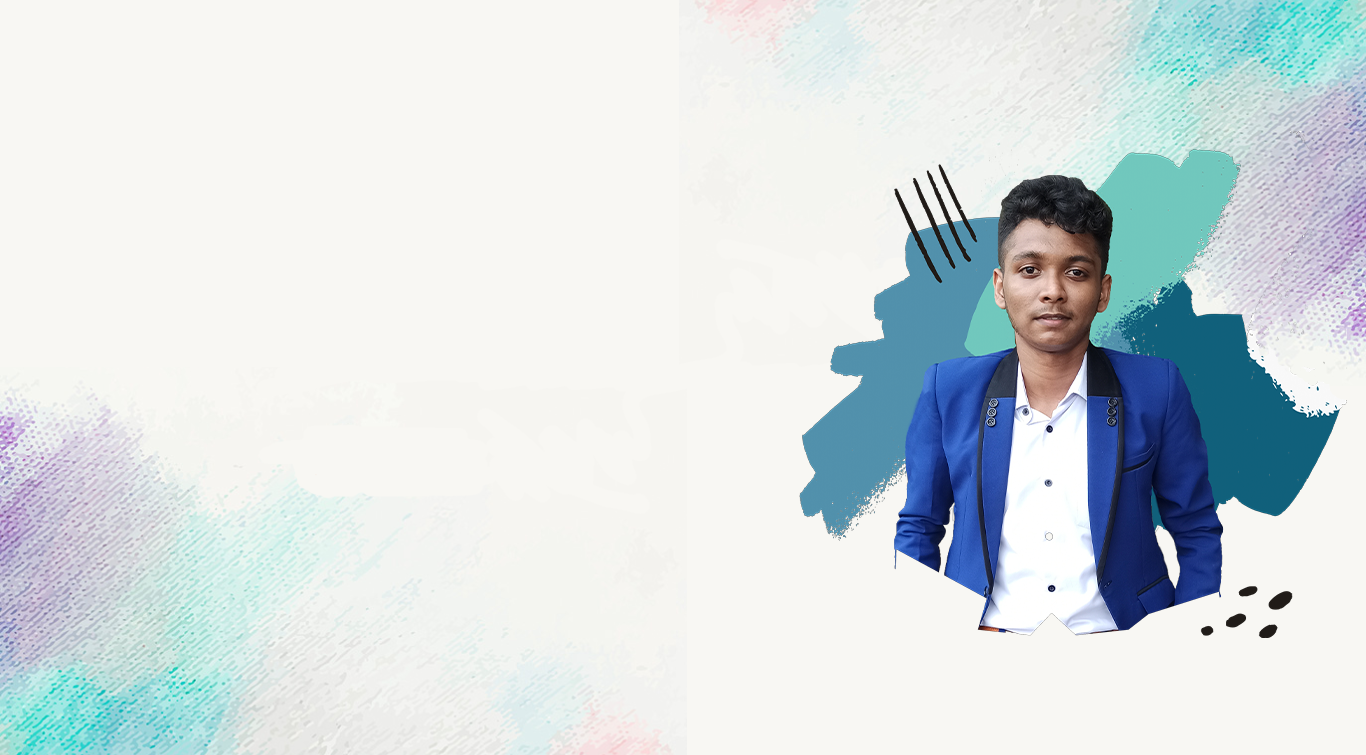
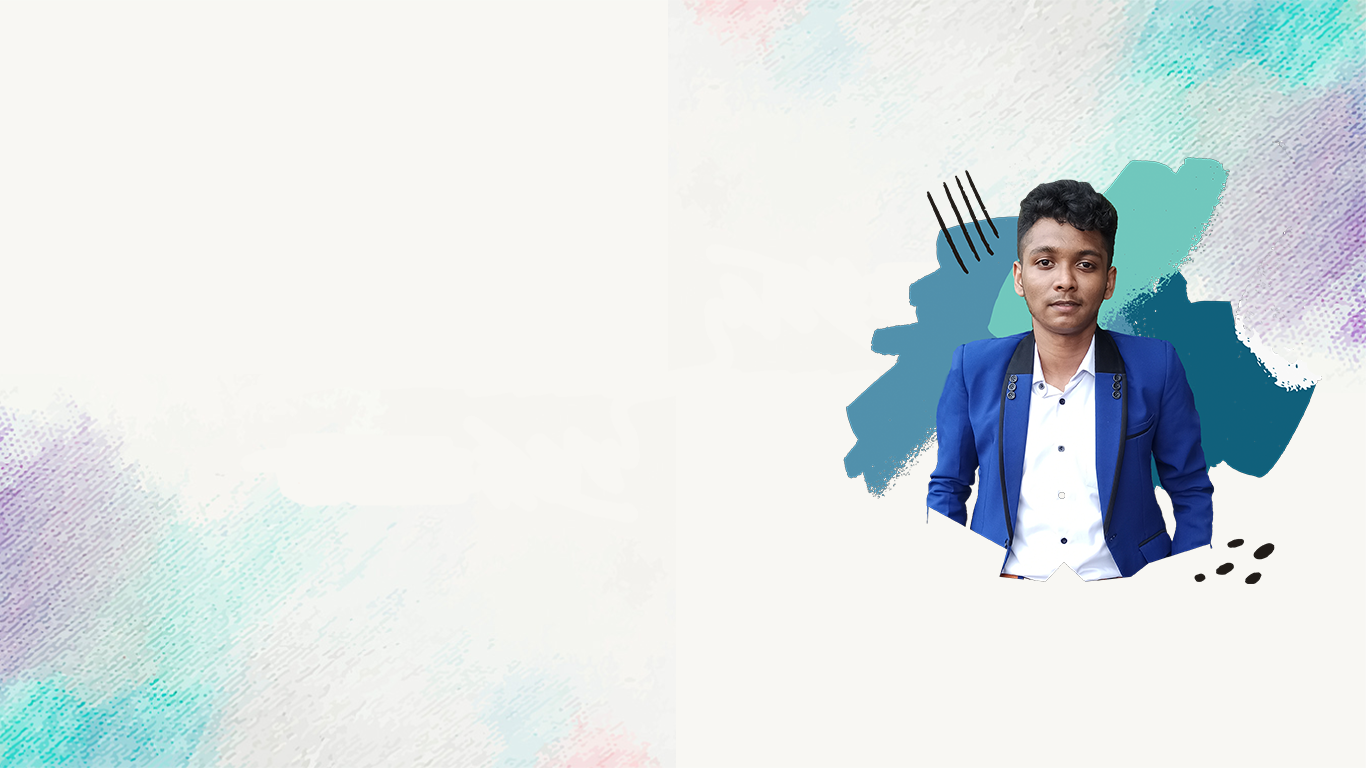
home image refactor resolotion

diff --git a/index.html b/index.html
@@ -37,9 +37,11 @@
 
 <!--Main sectioning -->
 <main>
-
     <!--Home page sectioning -->
-    <section class="background"> <!--Image sectioning --></section>
+    <section> <!--Image sectioning -->
+        <img src="assets/images/background1.png" alt="" class="background"></a>
+
+    </section>
 
     <article> <!--Paragraph sectioning -->
         <h1>Hello,</h1>

diff --git a/assets/styles/mainStyleSheet.css b/assets/styles/mainStyleSheet.css
@@ -57,8 +57,8 @@ header {
 }
 
 .background {
-    background: url("/assets/images/background1.png") no-repeat;
+    background-repeat: no-repeat;
     background-size: 100%;
-    height:120vh;
+    height: 112vh;
     padding-top: initial;
 }
